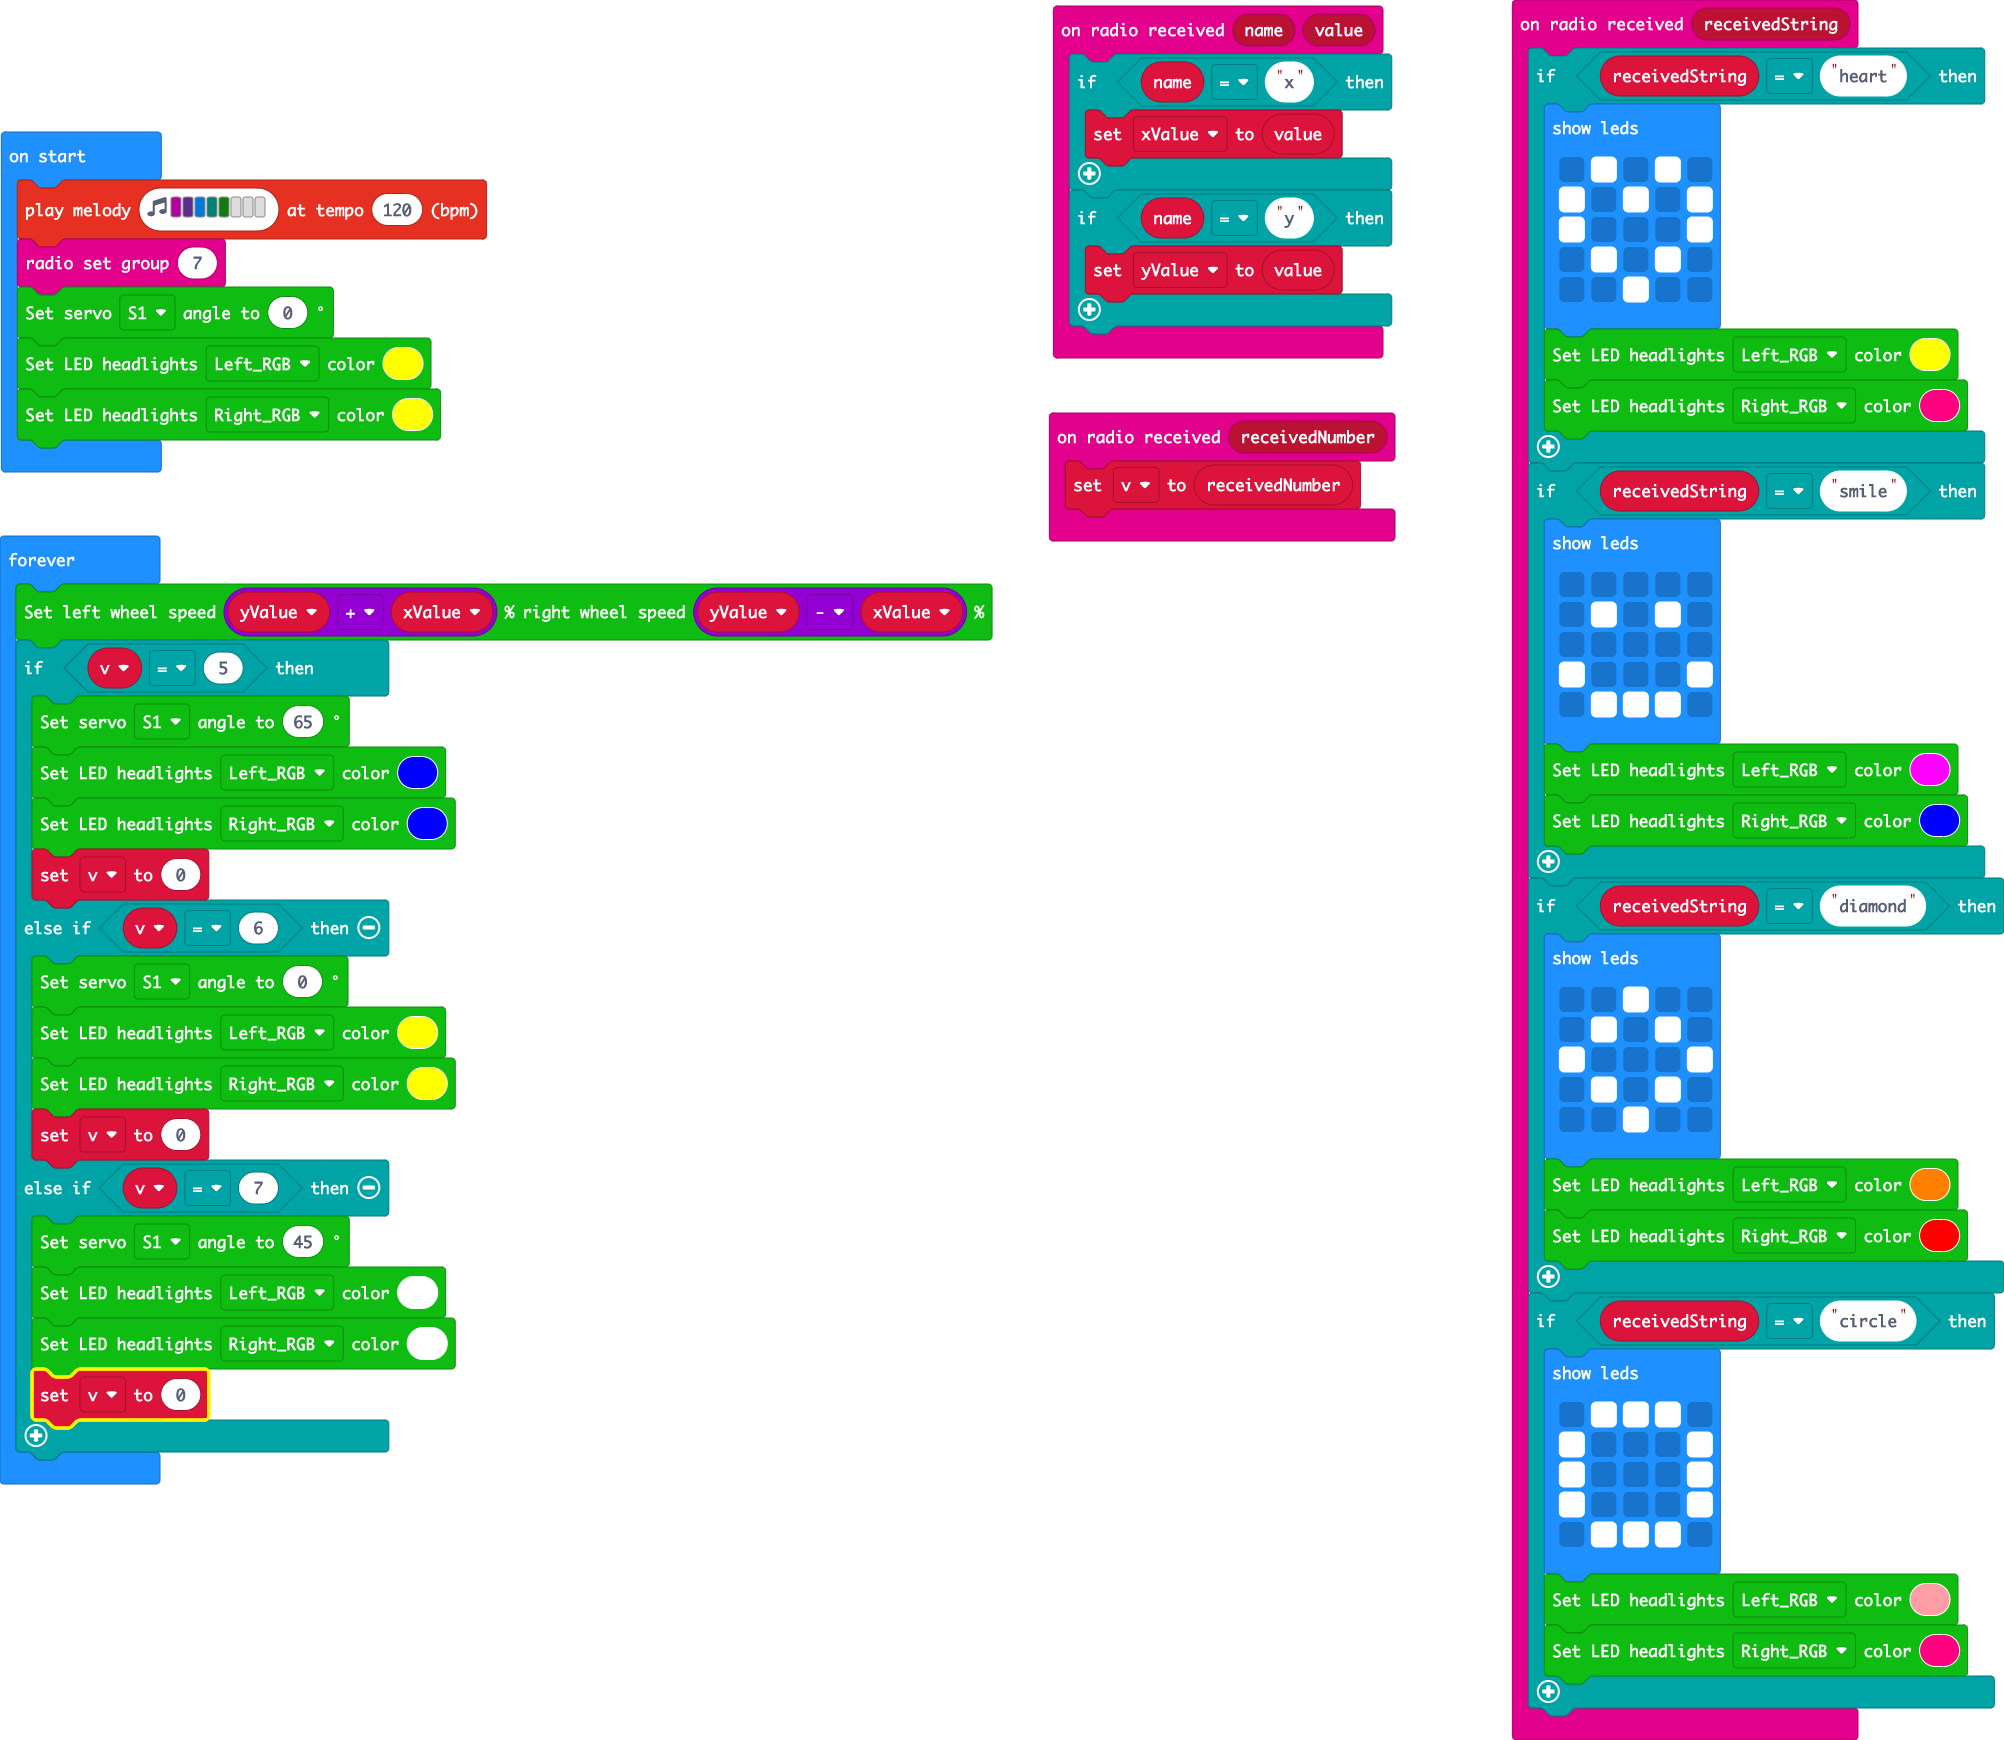
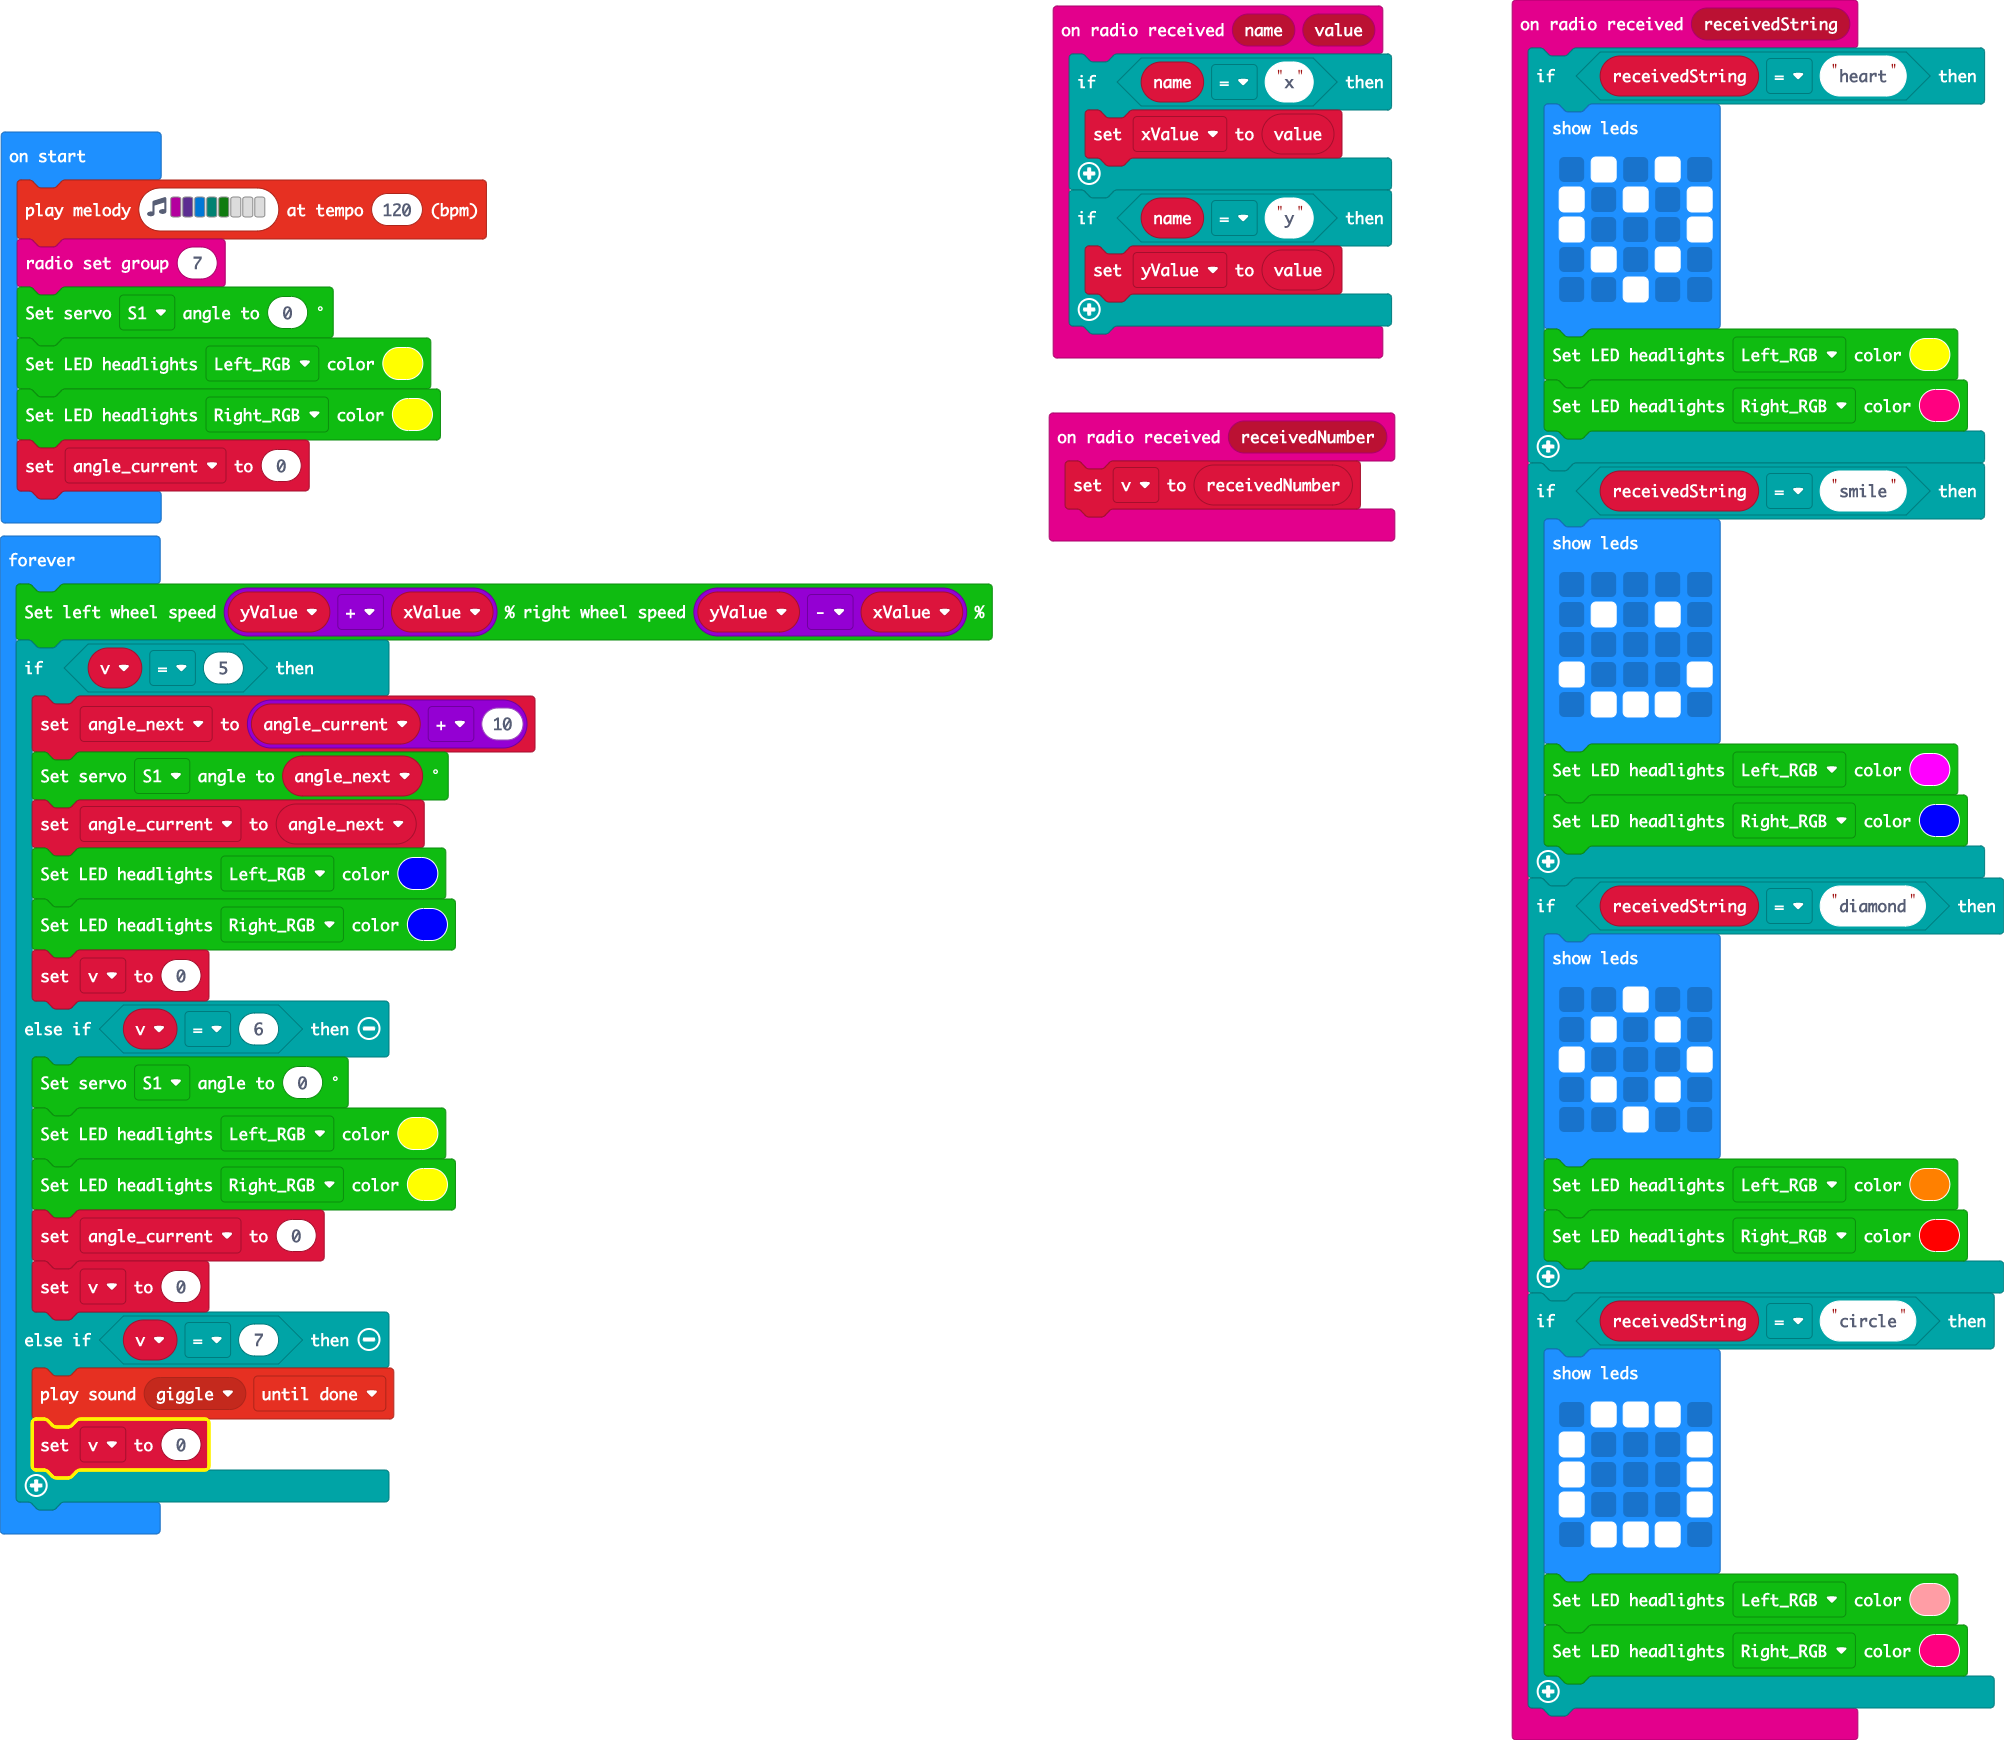
bug fix

Changed region(s): [[0.0, 0.3724, 0.2784, 0.9], [0.0, 0.2483, 0.1547, 0.3103]]

diff --git a/main.ts b/main.ts
@@ -55,6 +55,7 @@ radio.onReceivedValue(function (name, value) {
         yValue = value
     }
 })
+let angle_next = 0
 let yValue = 0
 let xValue = 0
 let v = 0
@@ -63,10 +64,13 @@ radio.setGroup(7)
 cuteBot.setServo(cuteBot.ServoList.S1, 0)
 cuteBot.colorLight(cuteBot.RGBLights.RGB_R, 0xffff00)
 cuteBot.colorLight(cuteBot.RGBLights.RGB_L, 0xffff00)
+let angle_current = 0
 basic.forever(function () {
     cuteBot.motors(yValue + xValue, yValue - xValue)
     if (v == 5) {
-        cuteBot.setServo(cuteBot.ServoList.S1, 65)
+        angle_next = angle_current + 10
+        cuteBot.setServo(cuteBot.ServoList.S1, angle_next)
+        angle_current = angle_next
         cuteBot.colorLight(cuteBot.RGBLights.RGB_R, 0x0000ff)
         cuteBot.colorLight(cuteBot.RGBLights.RGB_L, 0x0000ff)
         v = 0
@@ -74,11 +78,10 @@ basic.forever(function () {
         cuteBot.setServo(cuteBot.ServoList.S1, 0)
         cuteBot.colorLight(cuteBot.RGBLights.RGB_R, 0xffff00)
         cuteBot.colorLight(cuteBot.RGBLights.RGB_L, 0xffff00)
+        angle_current = 0
         v = 0
     } else if (v == 7) {
-        cuteBot.setServo(cuteBot.ServoList.S1, 45)
-        cuteBot.colorLight(cuteBot.RGBLights.RGB_R, 0xffffff)
-        cuteBot.colorLight(cuteBot.RGBLights.RGB_L, 0xffffff)
+        music.playSoundEffect(music.builtinSoundEffect(soundExpression.giggle), SoundExpressionPlayMode.UntilDone)
         v = 0
     }
 })
